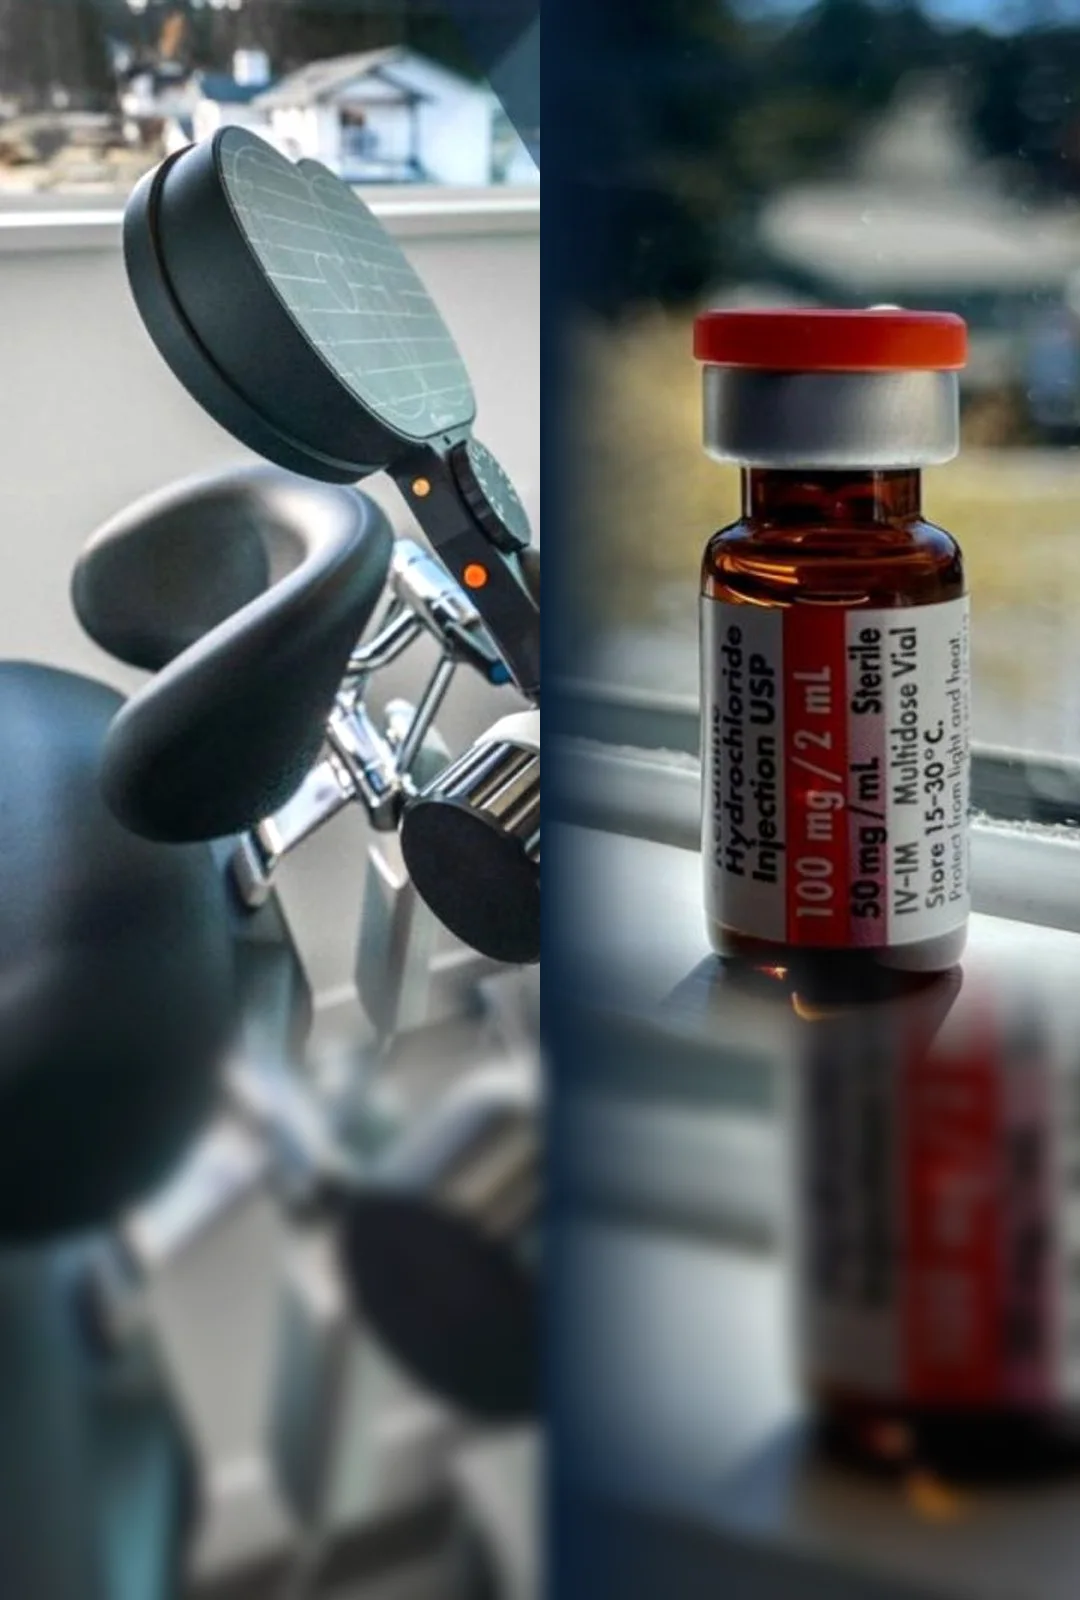
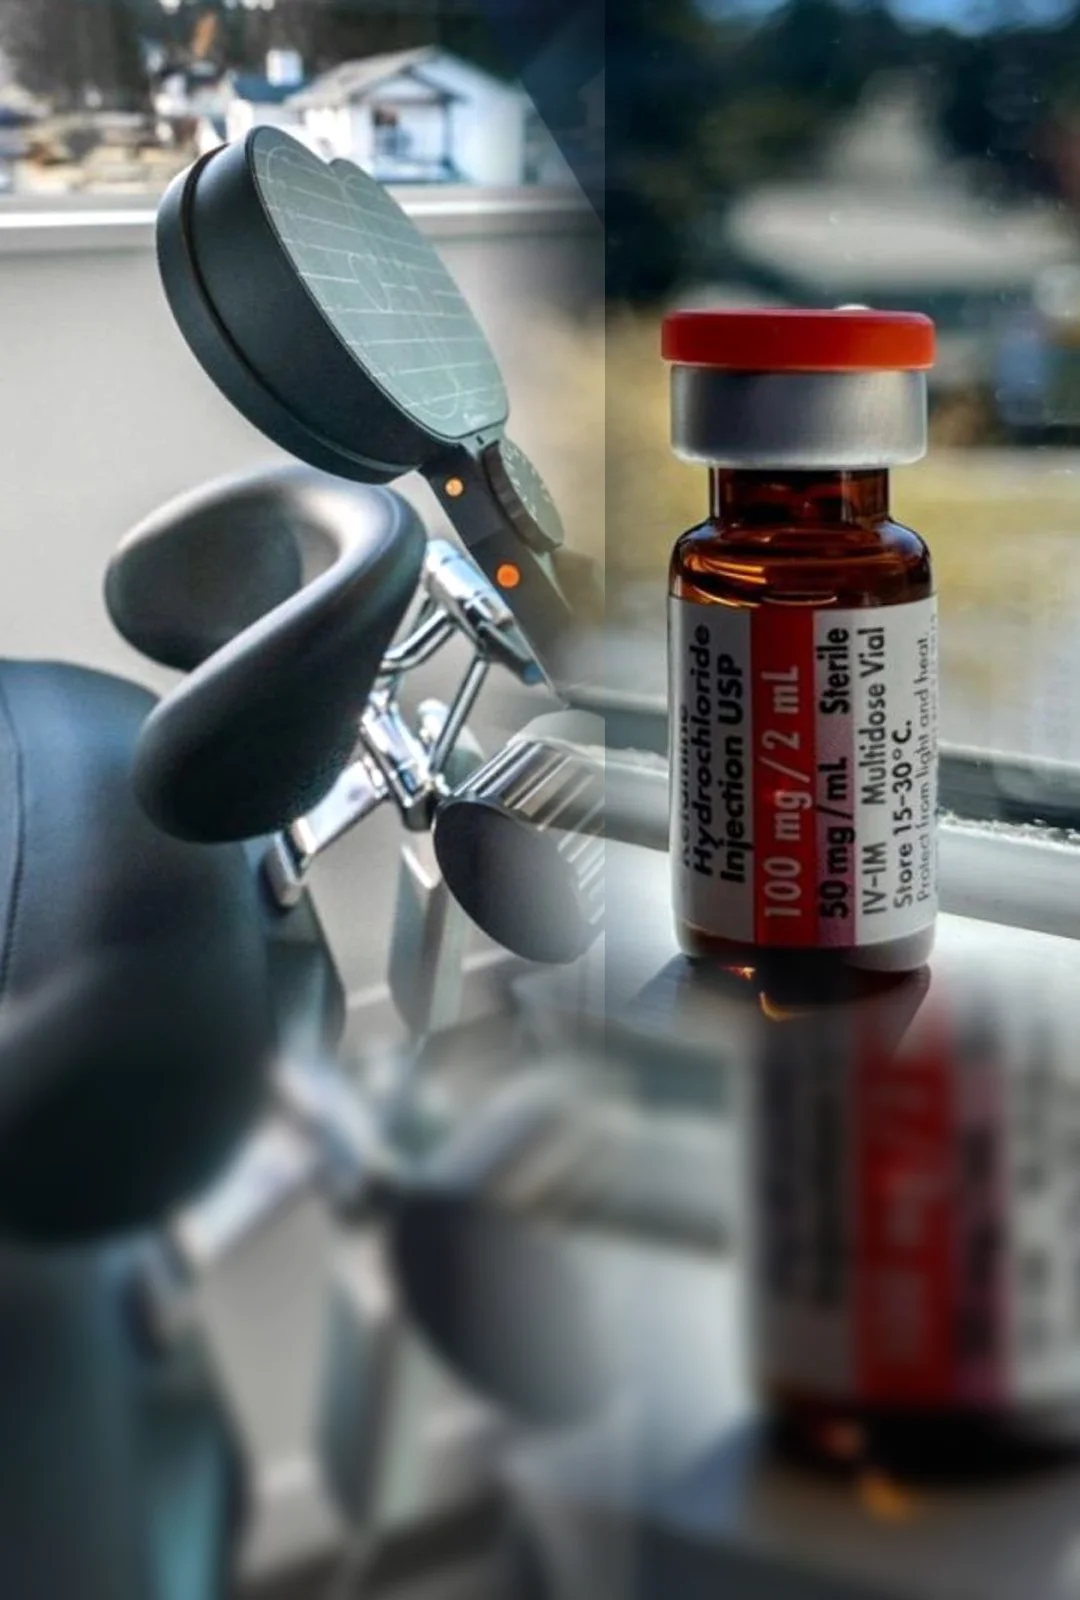
refine: soften homepage hero wash and mobile image blend
Lighten the localized navy overlay so photographic detail remains visible behind the copy, and overlap the mobile TMS and ketamine panels so the centre join is a fade rather than a hard seam.

diff --git a/src/app/globals.css b/src/app/globals.css
@@ -563,18 +563,18 @@ h3,
 .home-hero-wash {
   background:
     radial-gradient(
-      ellipse 120% 70% at 18% 88%,
-      rgb(var(--nl-hero-navy) / 0.7) 0%,
-      rgb(var(--nl-hero-navy) / 0.38) 38%,
-      rgb(var(--nl-hero-navy) / 0.1) 62%,
-      transparent 78%
+      ellipse 115% 62% at 12% 86%,
+      rgb(var(--nl-hero-navy) / 0.52) 0%,
+      rgb(var(--nl-hero-navy) / 0.24) 42%,
+      rgb(var(--nl-hero-navy) / 0.06) 66%,
+      transparent 82%
     ),
     linear-gradient(
       to top,
-      rgb(var(--nl-hero-navy) / 0.52) 0%,
-      rgb(var(--nl-hero-navy) / 0.22) 28%,
-      rgb(var(--nl-hero-navy) / 0.06) 52%,
-      transparent 72%
+      rgb(var(--nl-hero-navy) / 0.34) 0%,
+      rgb(var(--nl-hero-navy) / 0.14) 26%,
+      rgb(var(--nl-hero-navy) / 0.04) 48%,
+      transparent 68%
     );
 }
 
@@ -614,18 +614,18 @@ h3,
   .home-hero-wash {
     background:
       radial-gradient(
-        ellipse 72% 90% at 16% 58%,
-        rgb(var(--nl-hero-navy) / 0.58) 0%,
-        rgb(var(--nl-hero-navy) / 0.28) 42%,
-        rgb(var(--nl-hero-navy) / 0.08) 64%,
-        transparent 78%
+        ellipse 68% 86% at 14% 56%,
+        rgb(var(--nl-hero-navy) / 0.44) 0%,
+        rgb(var(--nl-hero-navy) / 0.2) 44%,
+        rgb(var(--nl-hero-navy) / 0.05) 66%,
+        transparent 80%
       ),
       linear-gradient(
         90deg,
-        rgb(var(--nl-hero-navy) / 0.46) 0%,
-        rgb(var(--nl-hero-navy) / 0.22) 28%,
-        rgb(var(--nl-hero-navy) / 0.06) 46%,
-        transparent 60%
+        rgb(var(--nl-hero-navy) / 0.32) 0%,
+        rgb(var(--nl-hero-navy) / 0.14) 26%,
+        rgb(var(--nl-hero-navy) / 0.04) 44%,
+        transparent 58%
       );
   }
 }
